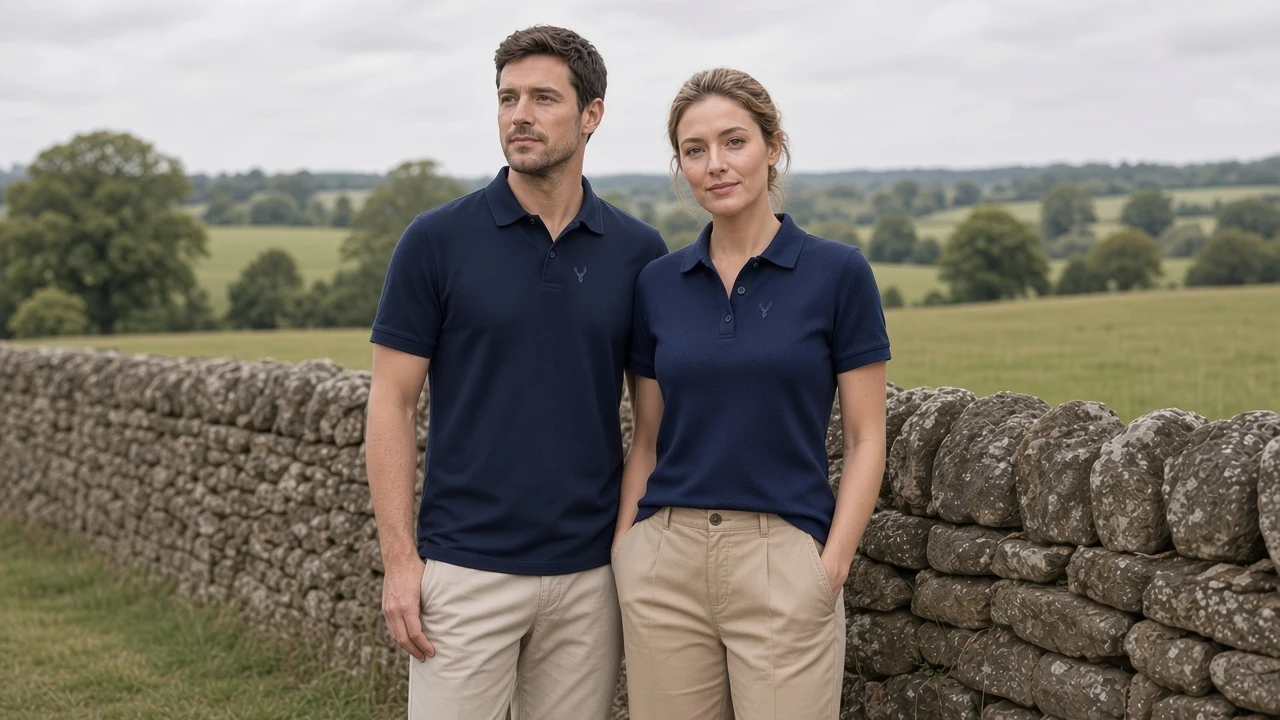
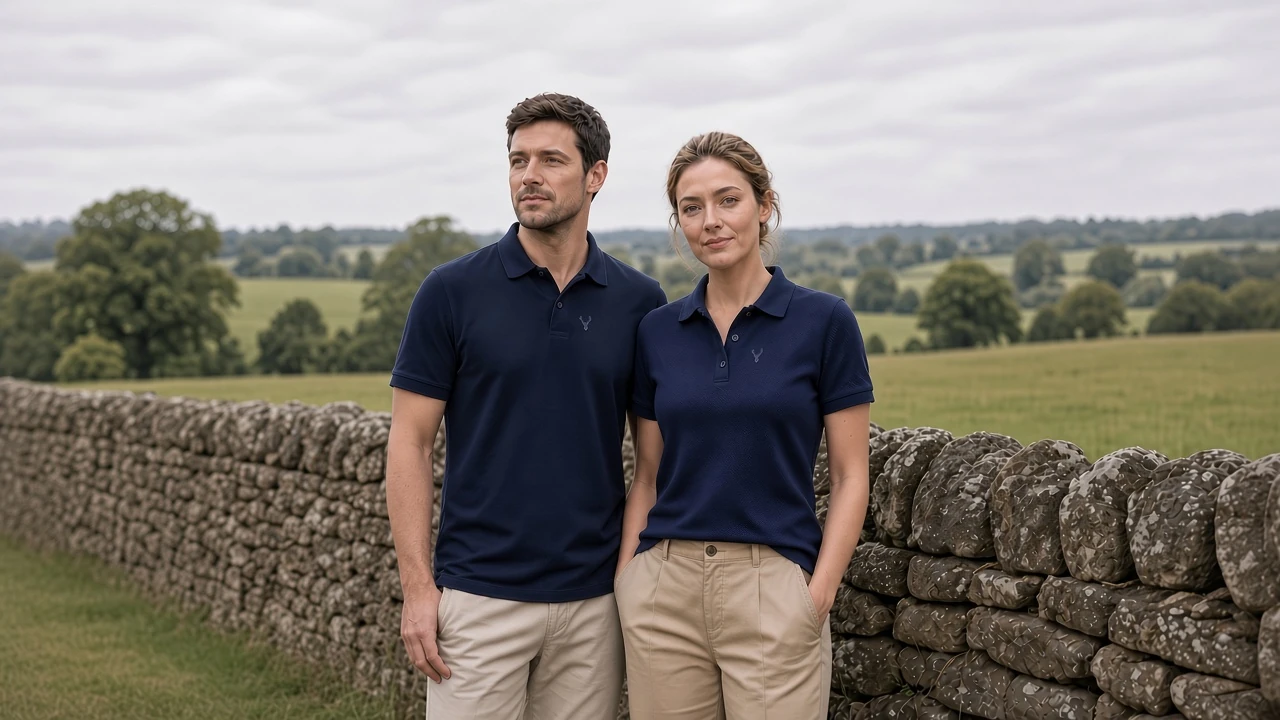
Shop: move the Devonshire wordmark to the top of the hero.
Put the stag, Devonshire and OUTDOOR CLOTHING in the sky above the couple so nothing covers their faces or bodies. Add a little sky on the phone crop, keep a 16:9 frame on large desktops, and leave only a soft gradient behind the type at the top.

diff --git a/src/app/shop/page.tsx b/src/app/shop/page.tsx
@@ -14,33 +14,42 @@ export default function ShopPage() {
     <>
       <TopBar active="shop" />
       <main id="main" className="flex-1 bg-[#F6EFE3] text-[#1C1917]">
-        <header className="relative isolate flex min-h-[70svh] items-end justify-center overflow-hidden text-center sm:min-h-[76vh] lg:min-h-[82vh]">
+        <header className="relative isolate flex min-h-[70svh] items-start justify-center overflow-hidden text-center sm:min-h-[76vh] lg:min-h-[82vh]">
+          <Image
+            src="/shop/r1/hero-phone.webp"
+            alt="A man and a woman wearing Devonshire clothing in the British countryside"
+            fill
+            priority
+            sizes="100vw"
+            className="-z-10 object-cover object-top 2xl:hidden"
+          />
           <Image
             src="/shop/r1/hero.webp"
             alt="A man and a woman wearing Devonshire clothing in the British countryside"
             fill
             priority
             sizes="100vw"
-            className="-z-10 object-cover"
-            style={{ objectPosition: "center center" }}
+            className="-z-10 hidden object-cover object-top 2xl:block"
           />
-          {/* Soft gradient only behind the wordmark, so the photograph stays clear. */}
+          {/* Soft gradient only behind the wordmark at the top, so faces and clothing stay clear. */}
           <div
-            className="pointer-events-none absolute inset-x-0 bottom-0 -z-10 h-[38%] bg-gradient-to-t from-[#F6EFE3]/90 via-[#F6EFE3]/45 to-transparent sm:h-[34%]"
+            className="pointer-events-none absolute inset-x-0 top-0 -z-10 h-[9.5rem] bg-gradient-to-b from-[#F6EFE3]/80 via-[#F6EFE3]/40 to-transparent sm:h-[10.5rem] 2xl:h-[9.5rem]"
             aria-hidden
           />
-          <div className="px-5 pb-10 pt-16 sm:pb-14 lg:pb-16">
+          <div className="px-5 pb-8 pt-5 sm:pt-6 2xl:pt-5">
             <Image
               src="/brand/stag.png"
               alt=""
               width={98}
               height={128}
               priority
-              sizes="98px"
-              className="mx-auto h-20 w-auto drop-shadow-[0_2px_6px_rgba(0,0,0,0.18)] sm:h-28"
+              sizes="56px"
+              className="mx-auto h-12 w-auto drop-shadow-[0_2px_6px_rgba(0,0,0,0.18)] sm:h-14 2xl:h-12"
             />
-            <h1 className="font-serif mt-3 text-[3.8rem] font-medium leading-none text-[#0E2141] sm:text-8xl lg:text-9xl">Devonshire</h1>
-            <p className="mt-4 flex items-center justify-center gap-3 text-[11px] tracking-[0.35em] text-[#C9A96A] sm:text-sm">
+            <h1 className="font-serif mt-1.5 text-5xl font-medium leading-none text-[#0E2141] sm:text-6xl 2xl:text-5xl">
+              Devonshire
+            </h1>
+            <p className="mt-2 flex items-center justify-center gap-3 text-[11px] tracking-[0.35em] text-[#C9A96A] sm:text-sm 2xl:text-[11px]">
               <span className="h-px w-8 bg-[#C9A96A]/80 sm:w-16" aria-hidden />
               OUTDOOR CLOTHING
               <span className="h-px w-8 bg-[#C9A96A]/80 sm:w-16" aria-hidden />
